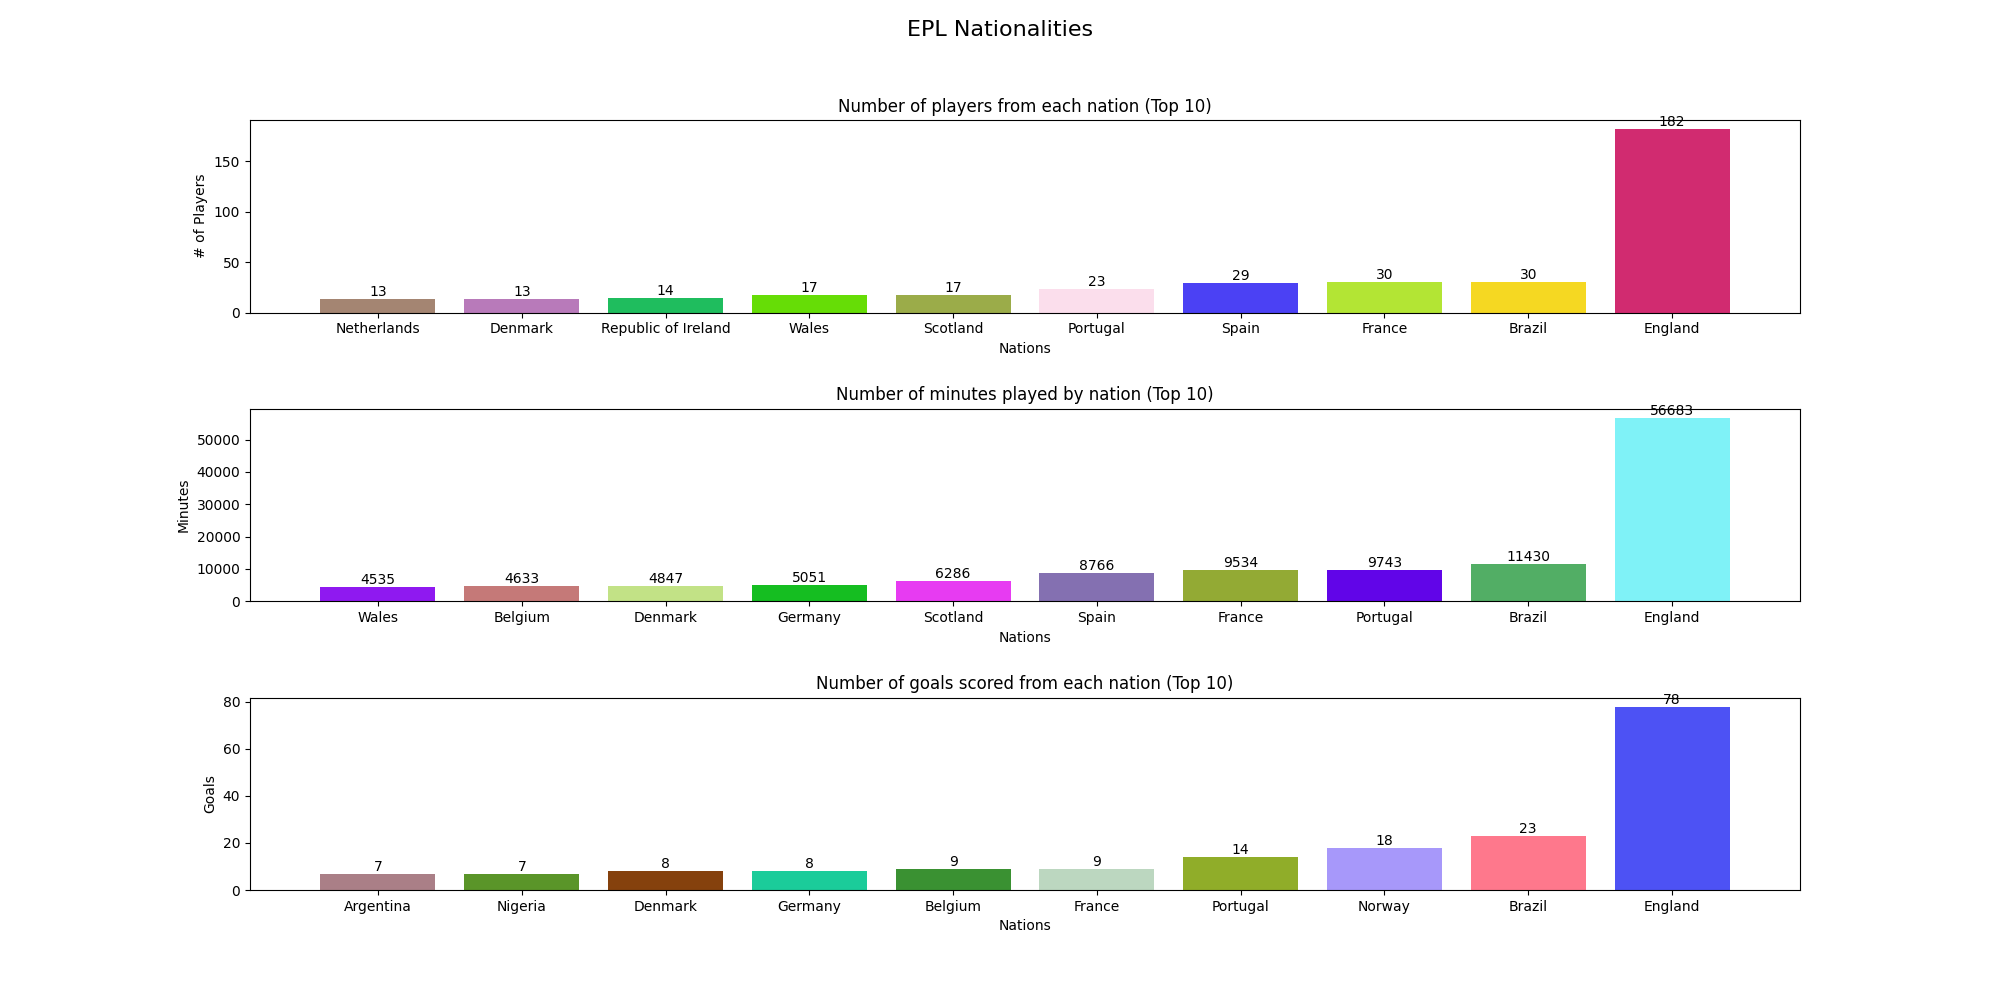
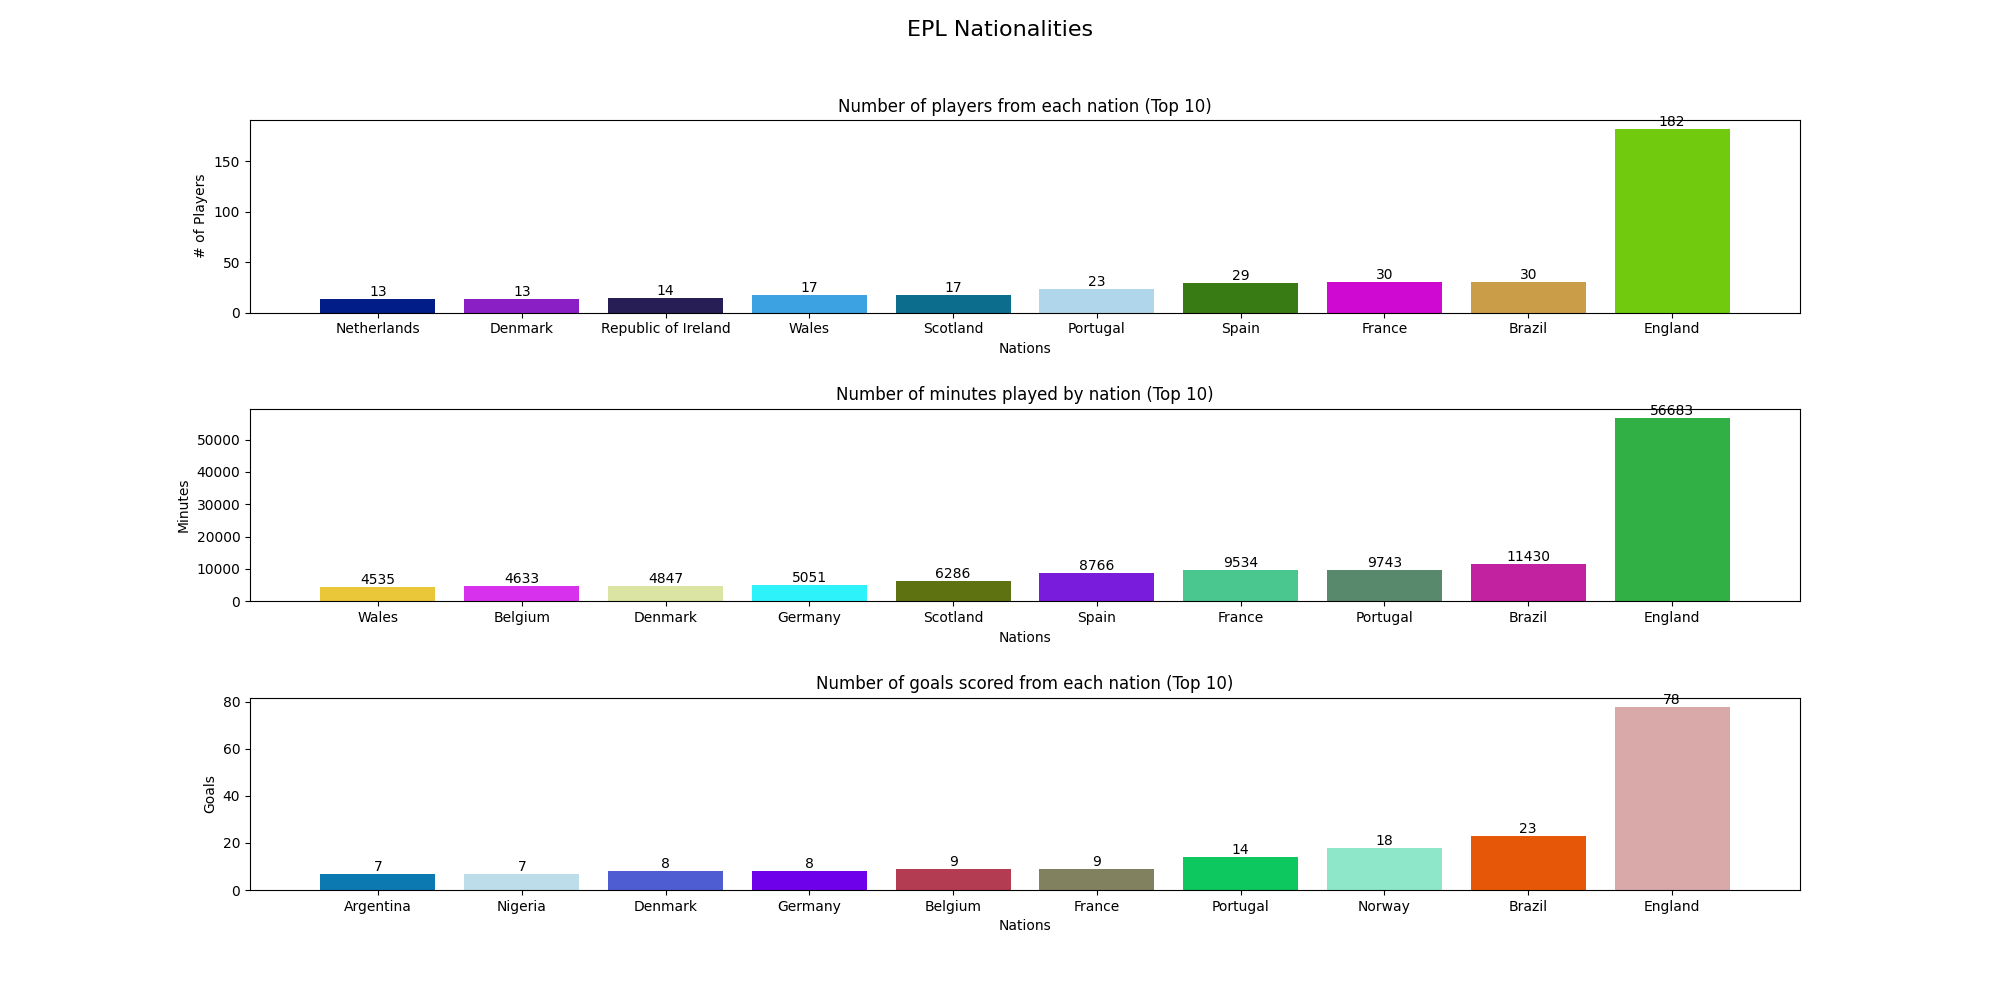
Added show and save

Changed region(s): [[0.155, 0.403, 0.868, 0.62], [0.155, 0.682, 0.868, 0.899], [0.155, 0.124, 0.868, 0.31]]

diff --git a/nationalities.py b/nationalities.py
@@ -108,8 +108,11 @@ def nations_played(url, competition):
     ax2.set_xlabel('Nations')
     ax2.set_ylabel('Goals')
 
+    fig.savefig(f'{competition}-nations.png')
+    plt.show()  
+
 # Combined top 5 leagues
-# Get nations colors
+# Add nation colours
 
 def main():
     pl_url = 'https://fbref.com/en/comps/9/nations/Premier-League-Nationalities'
